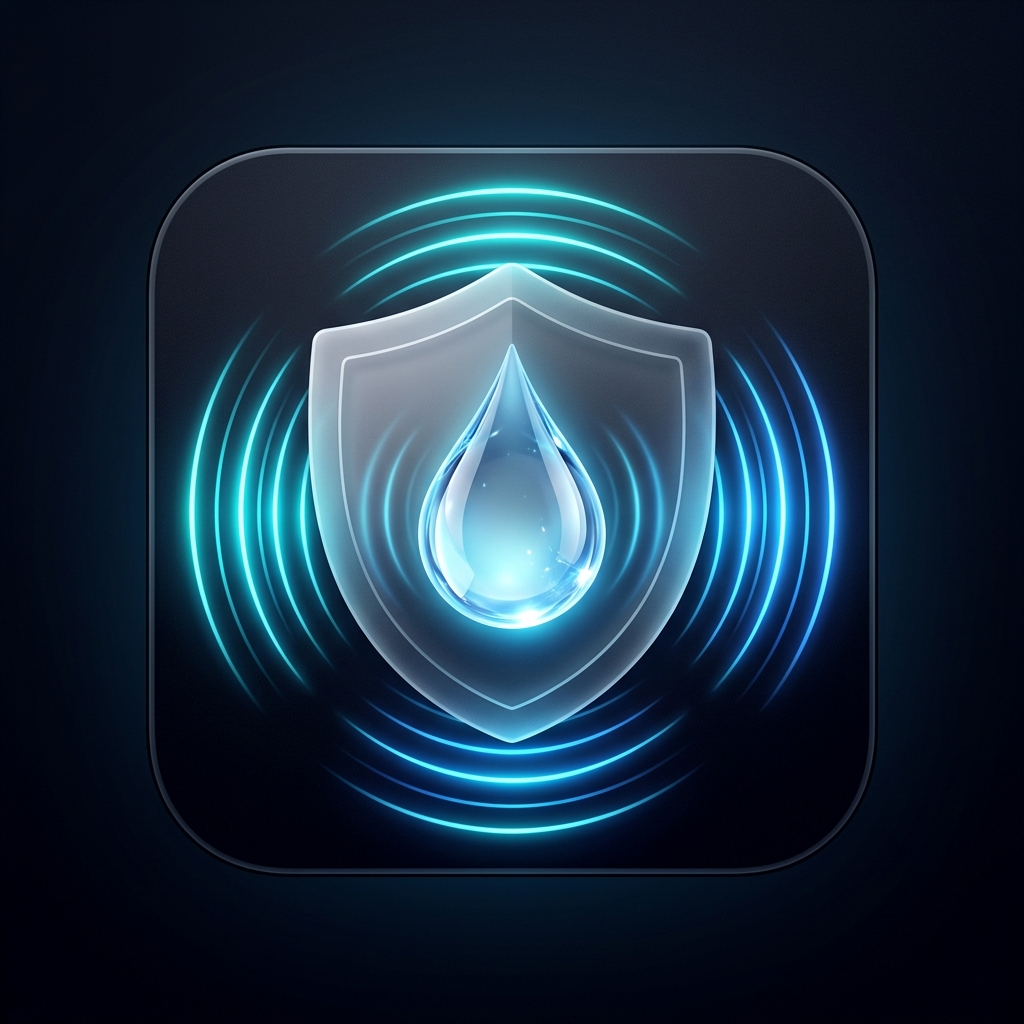
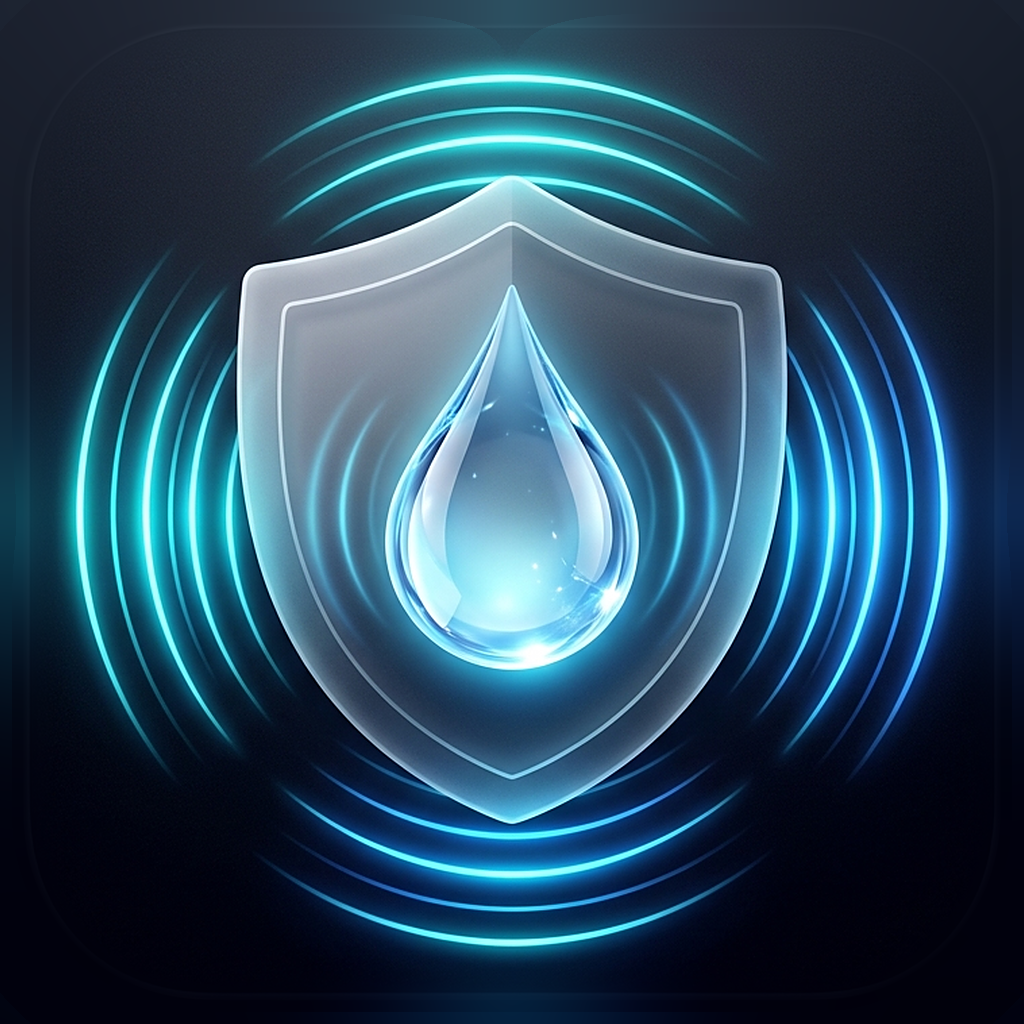
design: иконка без двойной рамки с более крупным артом и контраст textTertiary
Иконка:
- плашка со светлой рамкой убрана, фон растянут на весь квадрат 1024x1024
  (iOS и так накладывает свою маску, поэтому раньше получалась «рамка в рамке»);
- арт увеличен примерно на 35%, файл остался RGB без альфа-канала;
- AppIcon.png в корне и в Assets.xcassets синхронизированы.

Контраст:
- Theme.textTertiary: белый 0.4 -> 0.5 (контраст на фоне и карточках
  с ~3,7:1 до ~5,3:1 при норме 4,5:1);
- ProUpgradeView: у юридического текста убран лишний .opacity(0.8),
  с ним контраст был ~2,8:1.

diff --git a/Sources/Features/Paywall/ProUpgradeView.swift b/Sources/Features/Paywall/ProUpgradeView.swift
@@ -316,7 +316,7 @@ public struct ProUpgradeView: View {
             
             Text("Оплата через Apple App Store. Подписку можно отменить в любое время в настройках Apple ID.")
                 .font(.system(size: 10))
-                .foregroundColor(Theme.textTertiary.opacity(0.8))
+                .foregroundColor(Theme.textTertiary)
                 .multilineTextAlignment(.center)
         }
         .padding(.top, 4)

diff --git a/Sources/DesignSystem/Theme.swift b/Sources/DesignSystem/Theme.swift
@@ -30,7 +30,7 @@ public enum Theme {
     // Текстовые цвета
     public static let textPrimary = Color.white
     public static let textSecondary = Color.white.opacity(0.7)
-    public static let textTertiary = Color.white.opacity(0.4)
+    public static let textTertiary = Color.white.opacity(0.5) // ≥ 4.5:1 на фоне и карточках (при 0.4 было ~3.7:1)
 }
 
 // MARK: - Градиенты
